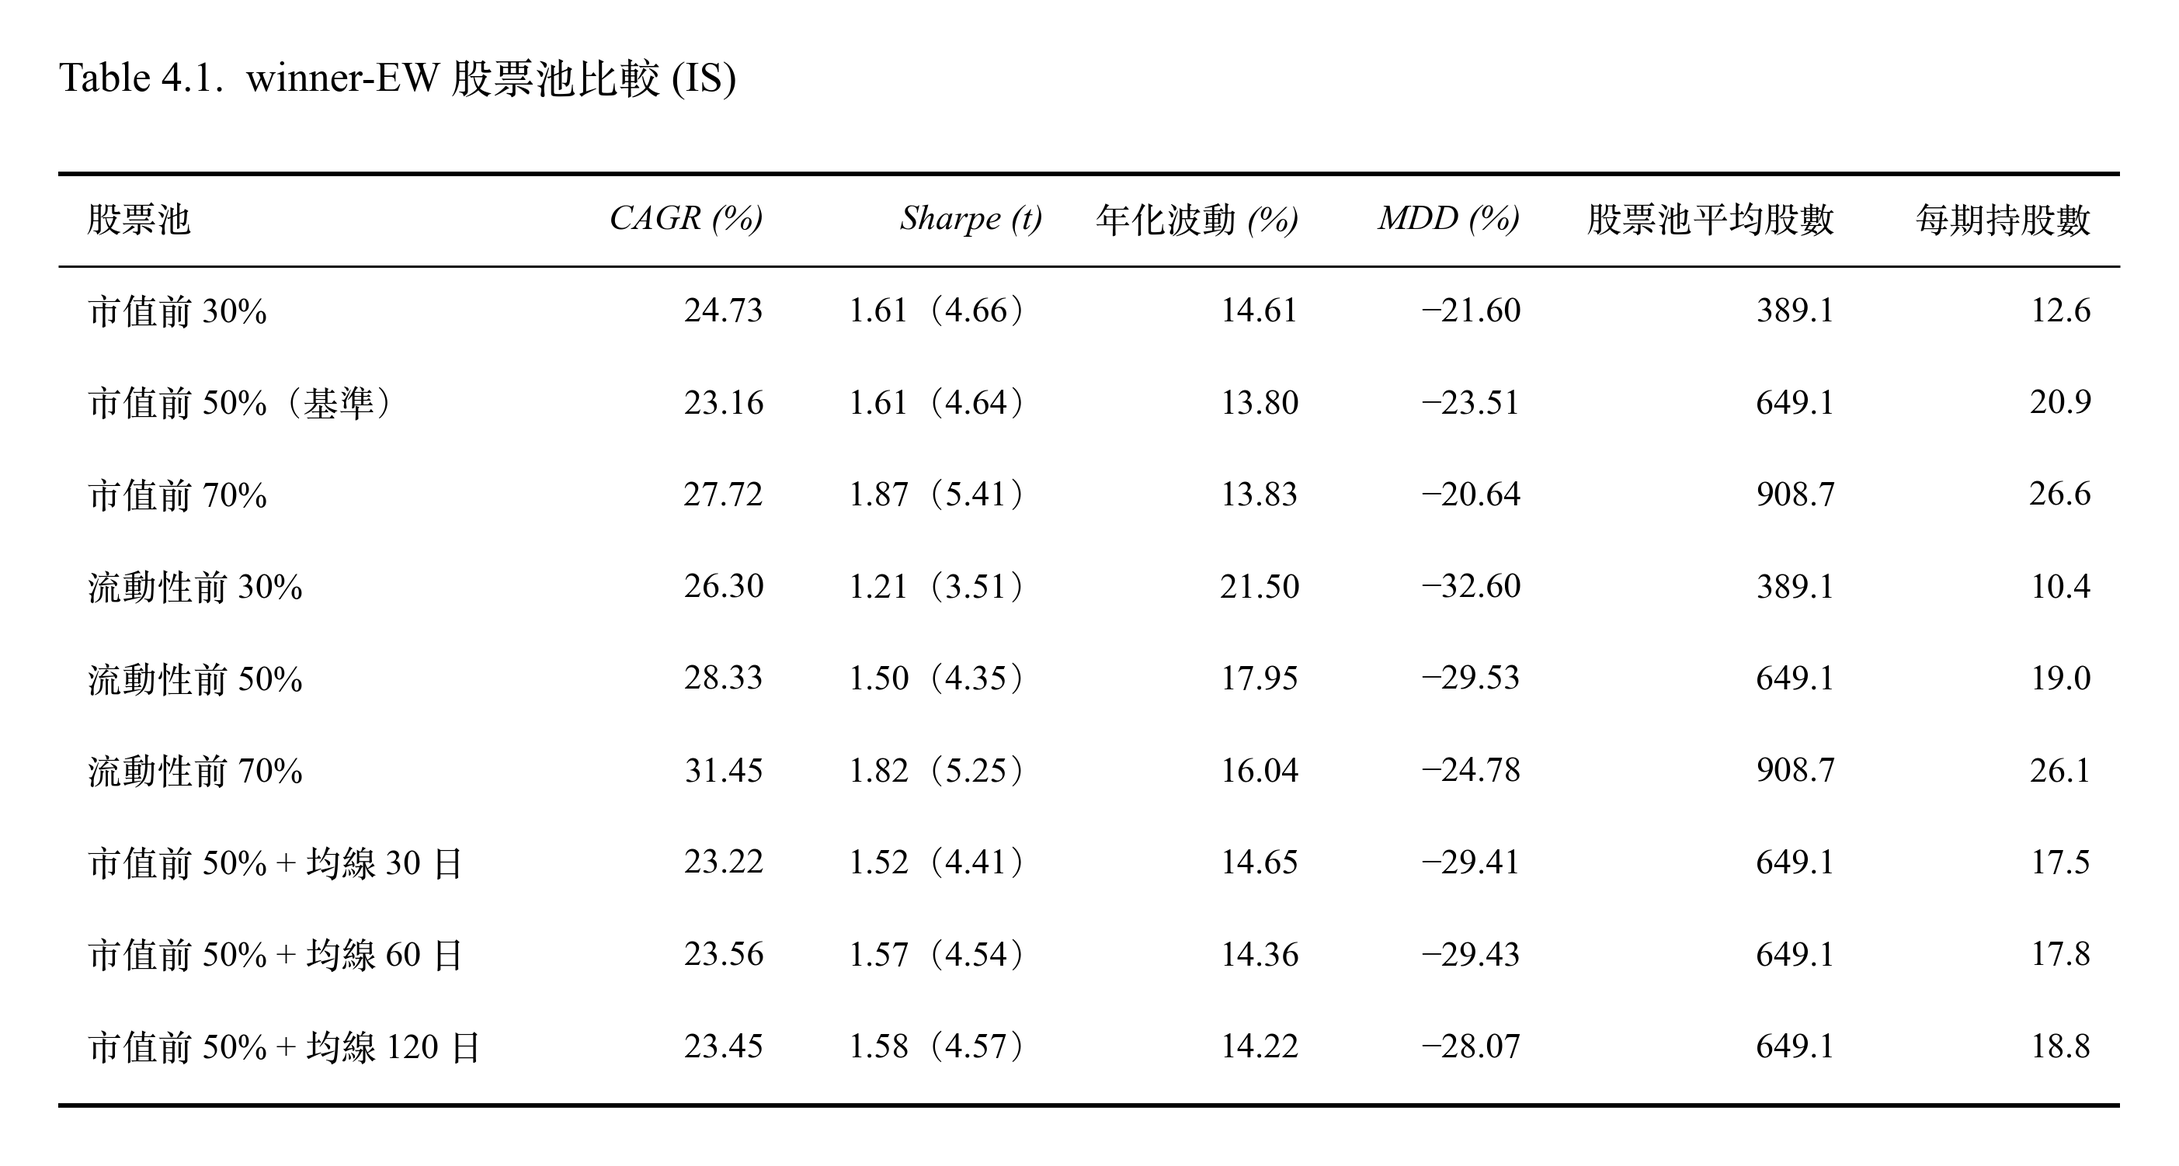
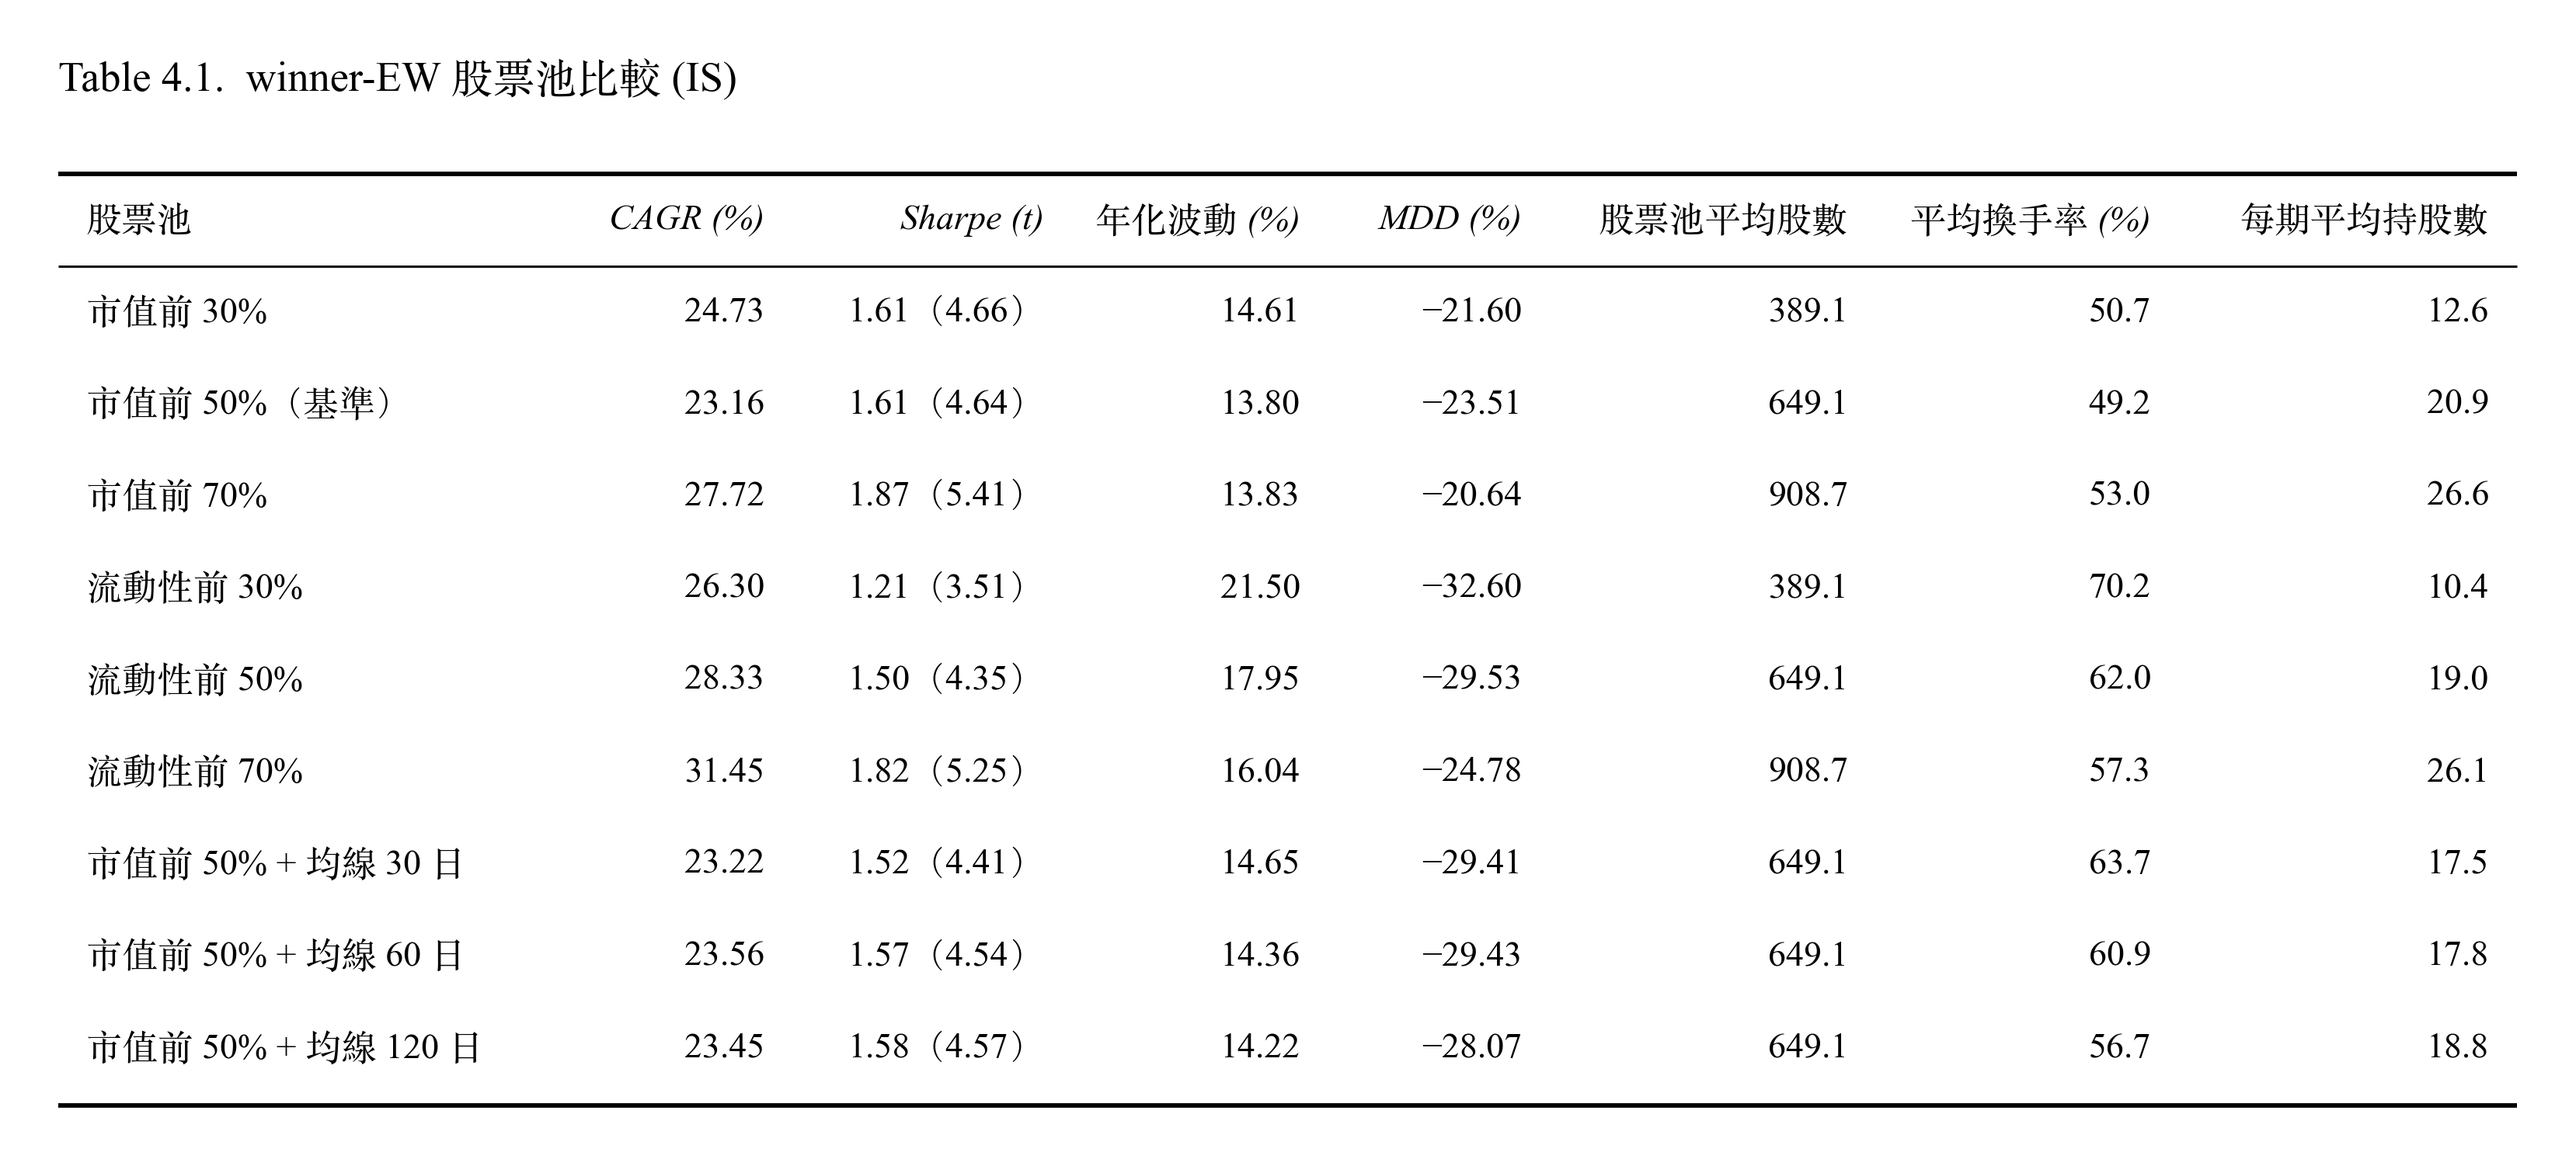
t

diff --git a/04_Strategy_and_Parameter_Optimization.md b/04_Strategy_and_Parameter_Optimization.md
@@ -47,12 +47,14 @@
 ## 4. 股票池比較
 
 **IS 期間，winner-EW 如果換一個股票池（市值範圍大小、改用流動性篩選、或加上均線條件），績效會不會不同？**
-- 原始設定基準是市值前 50%，排除金融股。
+- 原始設定基準是市值前 50%。
 
 <p align="center">
-  <img src="img/table_universe_sensitivity_is.png" alt="Table 4.1. winner-EW 股票池比較 (IS)" width="935">
+  <img src="img/table_universe_sensitivity_is.png" alt="Table 4.1. winner-EW 股票池比較 (IS)" width="1105">
 </p>
 
+> 所有股票池均排除金融股。
+> 
 > 個股流動性 = 成交量 × 收盤價，取換股前 20 個交易日的中位數。
 >
 > 均線交易規則：換股日檢查，在原本的 2% 買入/10% 賣出交易規則之上，只買入均線之上的股票（不符合則依照排名往後遞補）；賣出跌破均線的股票。
@@ -61,8 +63,8 @@
 #### 解讀
 - 換手率決定成本拖累。
 - 流動性池換手率高的原因：20 日成交金額每季變動大，股票常在邊界進進出出。流動性池報酬較高，但他們的波動也明顯較高，所以 Sharpe 反而較低。
-- 流動性前 30% 的股票波動高達 21.50%、MDD -32.60%。表示成交金額大的股票往往是高波動的股票，低波動 D1 已無法發揮作用。這和市值前 30% (波動 14.61%) 差別很大。說明流動性和市值，選出的是不一樣的股票。
-- 流動性股票池每季換得比較兇，成交金額每季的變動比市值大，舊持股比較留不住。因此每季持股較容易掉出 10% 邊界。
+- 流動性前 30% 的股票波動高達 21.50%、MDD -32.60%。每期平均持股數最少（10.4），持股集中波動最大。表示成交金額大的股票往往是高波動的股票，低波動 D1 已無法發揮作用。這和市值前 30% (波動 14.61%) 差別很大。說明流動性和市值，選出的是不一樣的股票。
+- 流動性股票池每季換得比較兇，成交金額每季的變動比市值大，舊持股比較留不住。因此每季持股較容易掉出 10% 邊界。持股數受到股票在前 10% 停留多久的影響。
 - 持股越少波動越高，會讓持股過度集中
 - 均線沒有帶來改善
 - IS 中最有效率的是市值 70% (CAGR 27.72%, Sharpe 1.87) 跟流動性 70% (CAGR 31.45%, Sharpe 1.82)。
